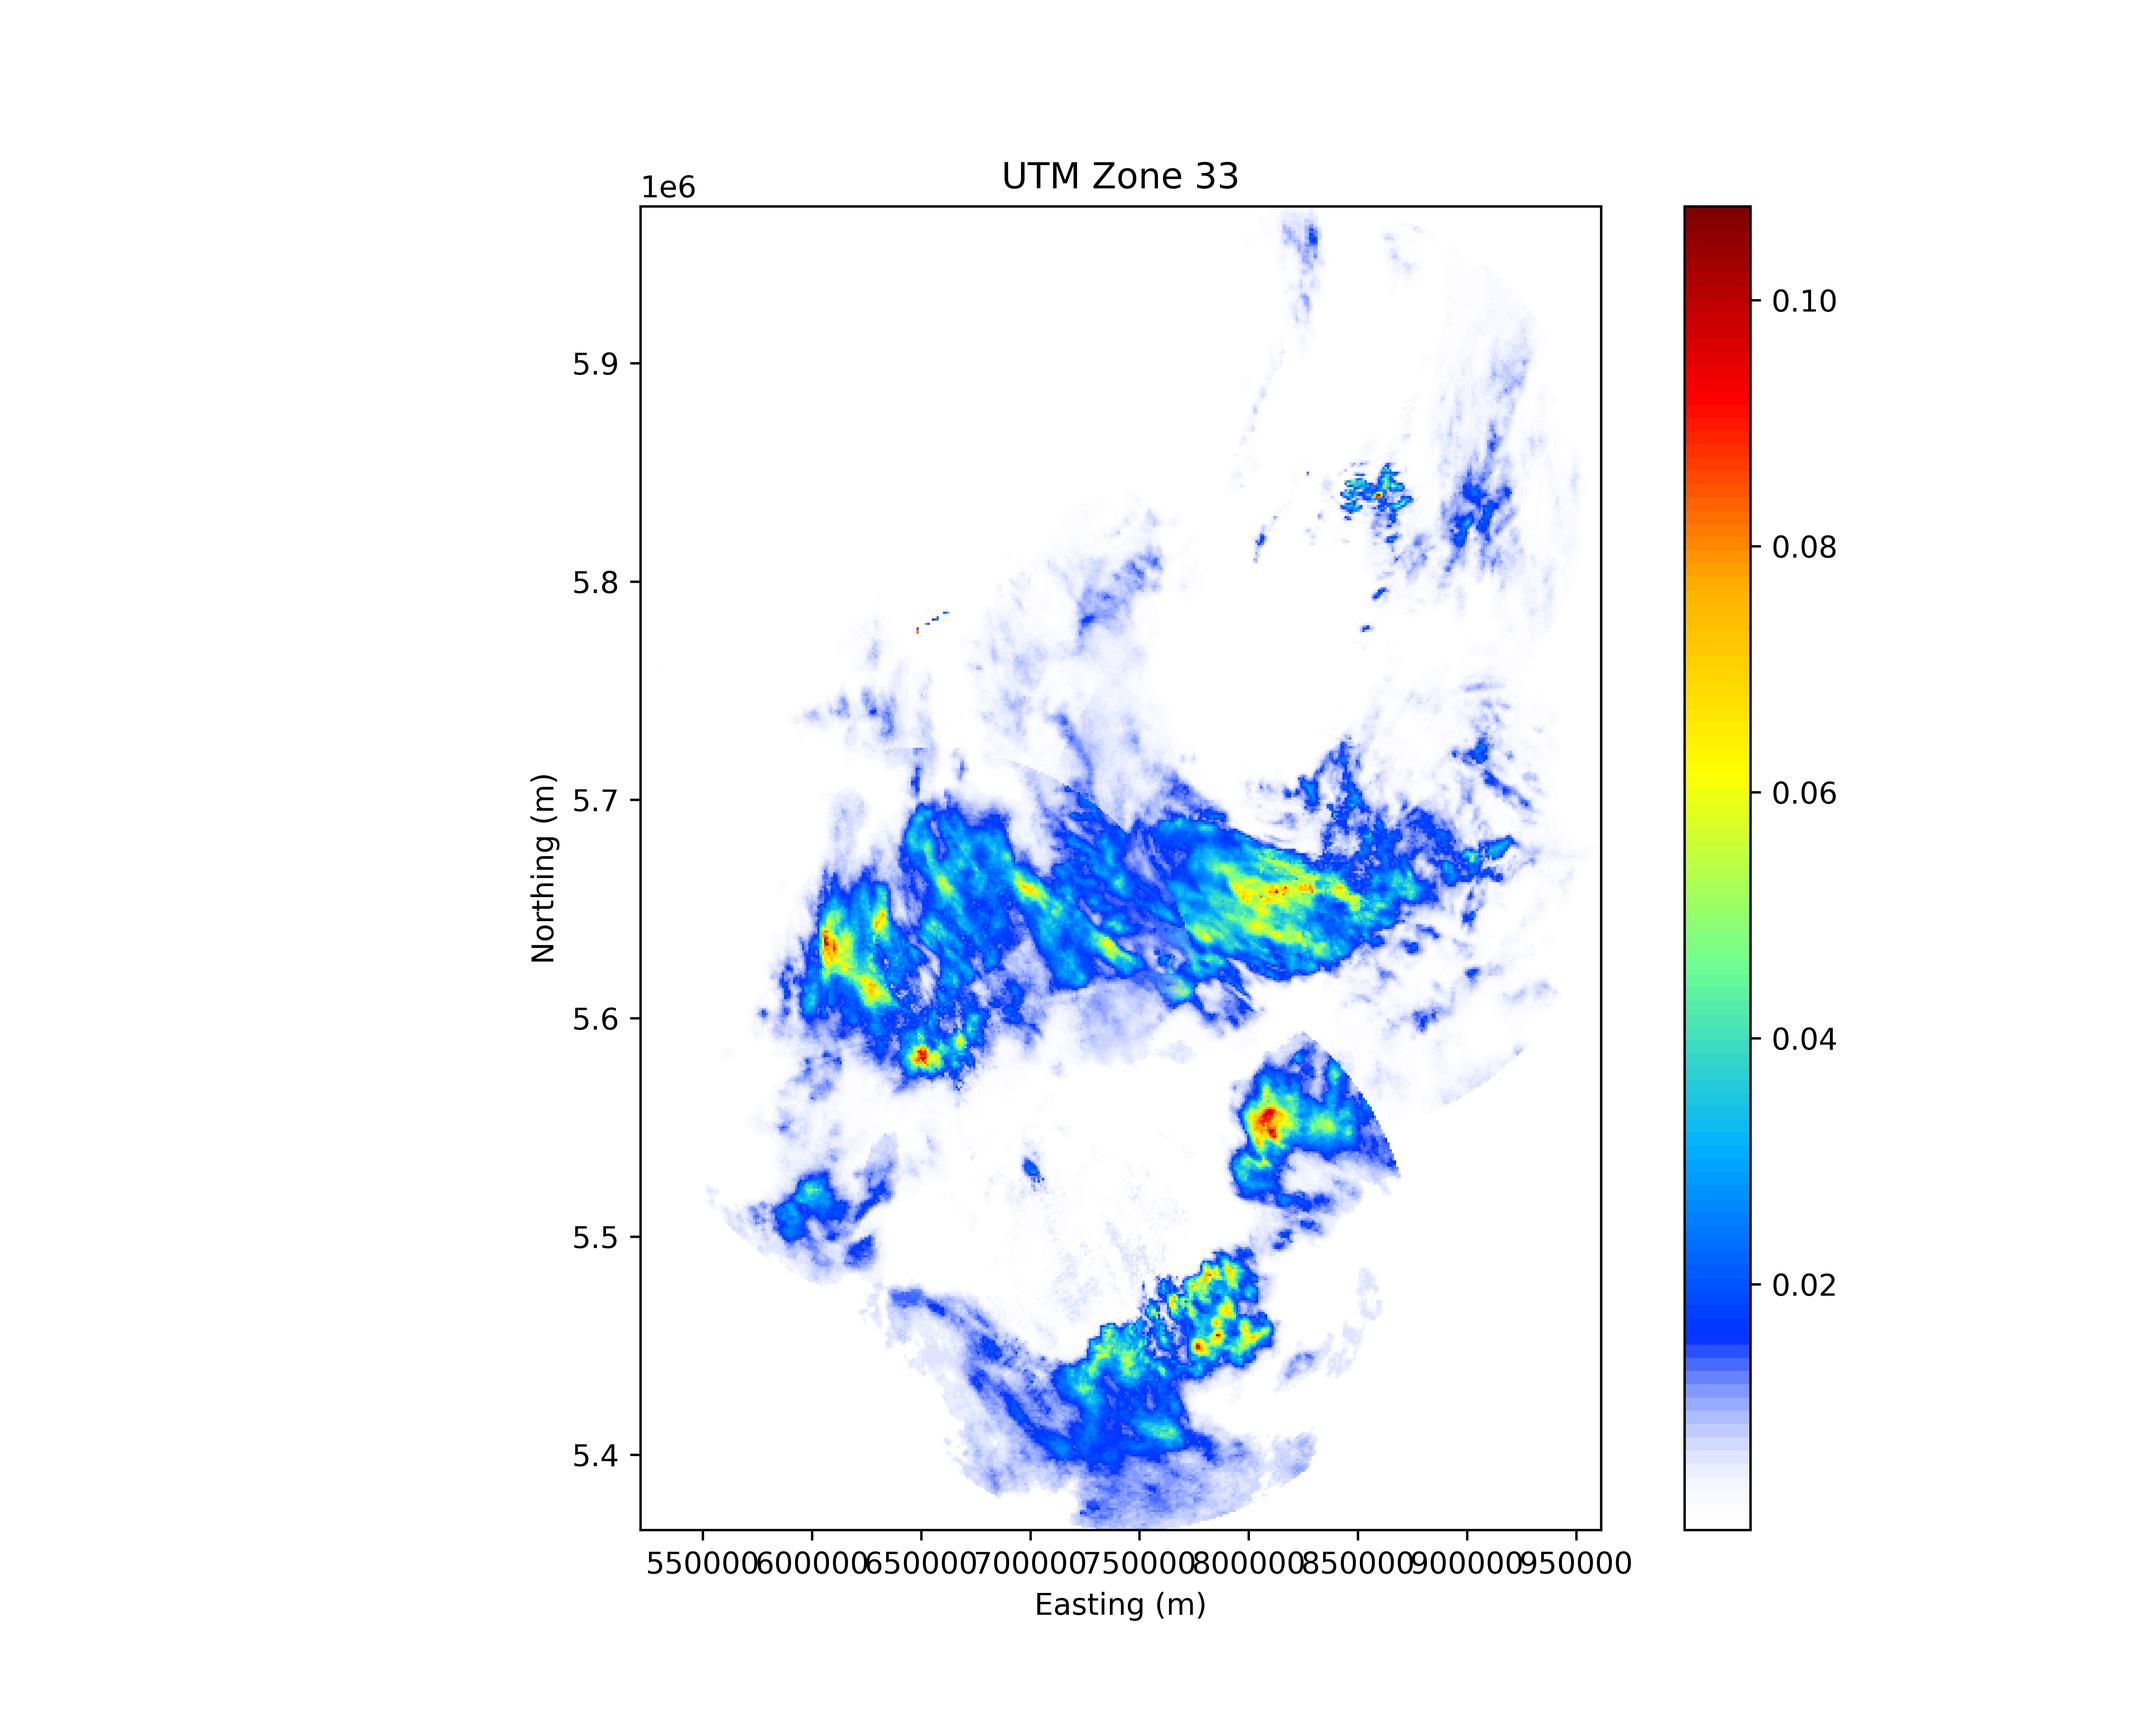
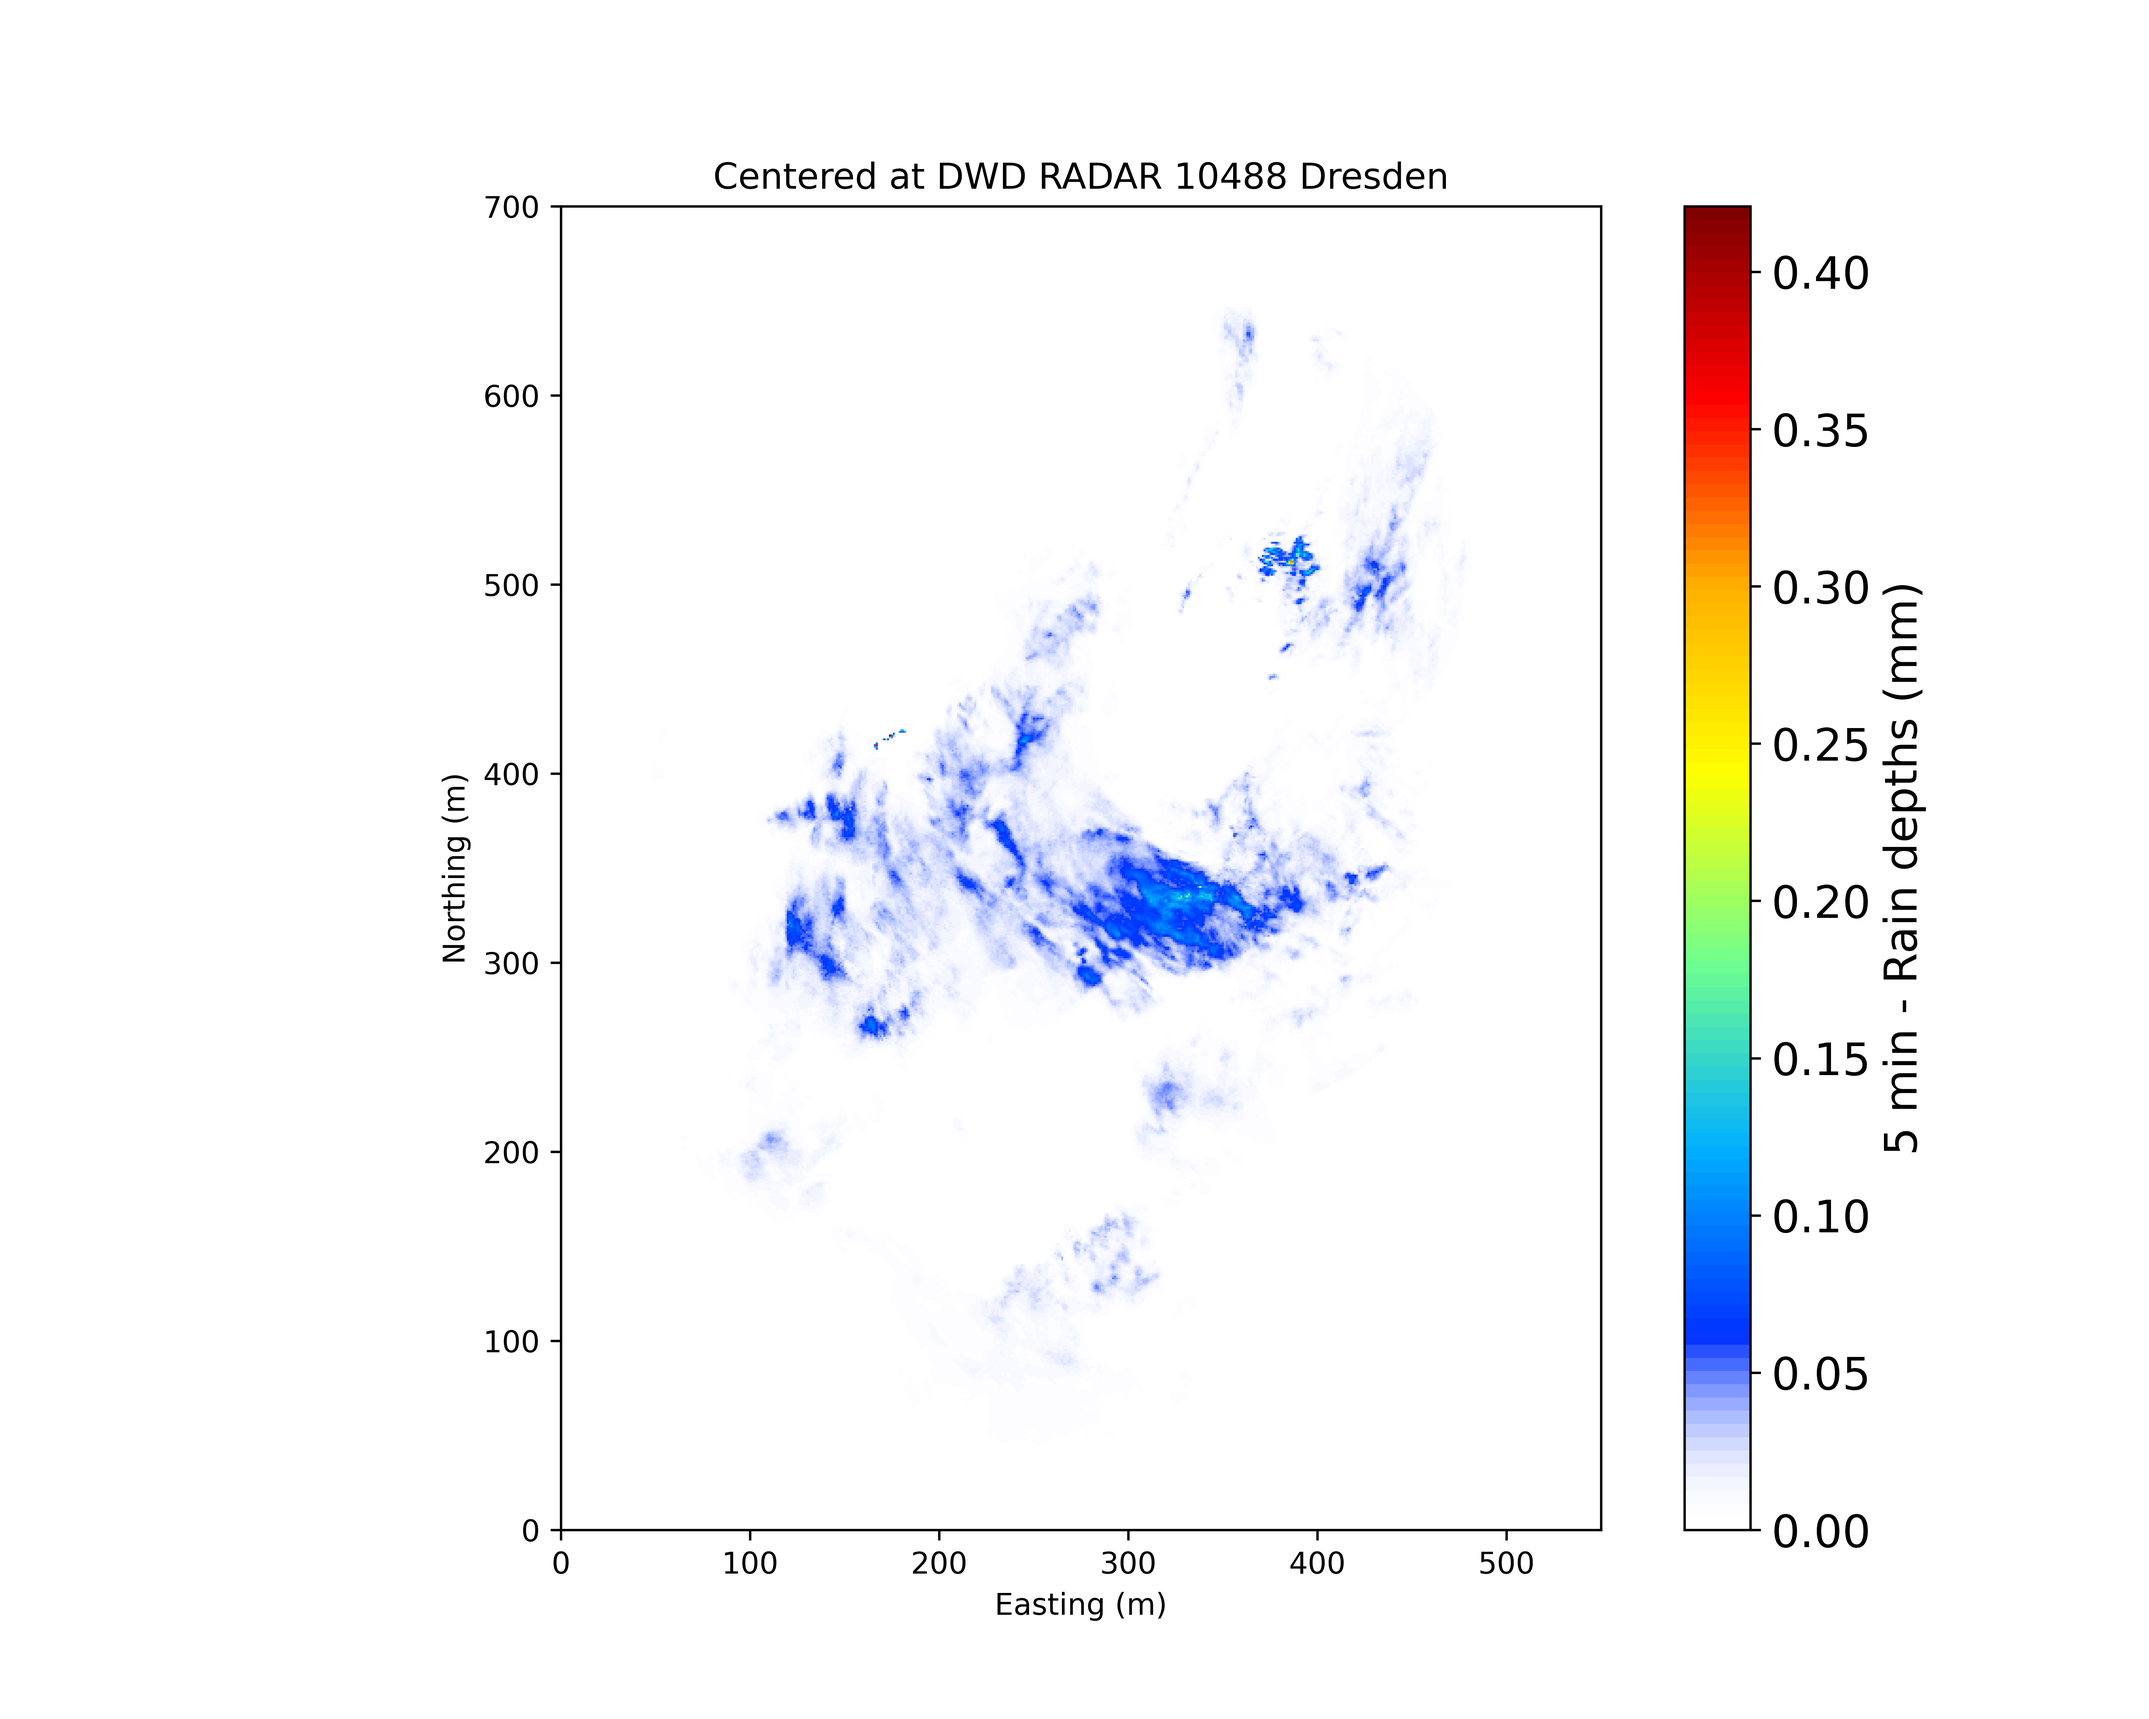
Create composite of multiple radar sites. Georeferencing needs more time and love.

diff --git a/code/composite.py b/code/composite.py
@@ -1,3 +1,4 @@
+from re import A
 import sys
 import datetime
 import numpy as np
@@ -5,7 +6,6 @@ import matplotlib.pylab as pl
 import matplotlib.pyplot as plt
 import wradlib as wrl
 from wradlib.georef.projection import reproject
-import cartopy.crs as ccrs
 
 from colorbar import cm
 from func import plot_raindepths, plot_gridded, clutter_gabella, attcorr,  rain_depths
@@ -23,16 +23,9 @@ site_loc_umd = (11.176091, 52.160096, 185)
 site_loc_neu = (11.135034, 50.500114, 880)
 site_loc_eis = (12.402788, 49.540667, 799)
 
-# get domain width and heigth, 135km 
-lon_min = 11.135034
-lon_max = 13.858212
-lat_min = 49.540667
-lat_max = 52.648667
-
-# Calculate rain depths as (360,128) - array.
 def get_depths(filename):
     """ 
-    Read data from file. Correct clutter and attenuation. Calculate and return 5min - rain depths.
+    Read data from file. Correct clutter and attenuation. Calculate and return 5min - rain depths as (360,128) - array.
     """
     f = wrl.util.get_wradlib_data_file('example_data/'+filename)
     data, metadata = wrl.io.read_dx(f)
@@ -47,56 +40,76 @@ depths_pro = get_depths(filename_pro)
 depths_umd = get_depths(filename_umd)
 depths_neu = get_depths(filename_neu)
 depths_eis = get_depths(filename_eis)
-np.savetxt("code/depths_drs.txt", depths_drs)
 
 # Gridding
-def get_radolan_coords(depths, radar_loc):
+def get_coords(depths, radar_loc):
     # Get cartesian coordinates in xyz-space.
     elevation = 0.5 # in degree
     azimuths = np.arange(0,360)
     ranges = np.arange(0, 128000., 1000.)
     polargrid = np.meshgrid(ranges, azimuths)
     coords, rad = wrl.georef.spherical_to_xyz(polargrid[0], polargrid[1], elevation, radar_loc)
-
-    # Get geo coordinates.
-    utm_coords = wrl.georef.reproject(coords, projection_source=rad, projection_target=wrl.georef.epsg_to_osr(32632))
-    x = utm_coords[..., 0]
-    y = utm_coords[..., 1]
-    # radolan = wrl.georef.create_osr("dwd-radolan") # polarstereografischer Projektion, äquidistante Rasterung von 1,0 km
-    # radolan_coords = wrl.georef.reproject(coords, projection_source=rad, projection_target=radolan)
-    # x = radolan_coords[..., 0]
-    # y = radolan_coords[..., 1]
+    x = coords[..., 0]
+    y = coords[..., 1]
 
     # Gridding -> 2D array
-    xgrid = np.linspace(x.min(), x.max(), 250)
-    ygrid = np.linspace(y.min(), y.max(), 250)
+    xgrid = np.linspace(x.min(), x.max(), 256)
+    ygrid = np.linspace(y.min(), y.max(), 256)
     grid_xy = np.meshgrid(xgrid, ygrid)
     grid_xy = np.vstack((grid_xy[0].ravel(), grid_xy[1].ravel())).transpose()
     xy=np.concatenate([x.ravel()[:,None],y.ravel()[:,None]], axis=1)
-    gridded = wrl.comp.togrid(xy, grid_xy, 128000., np.array([x.mean(), y.mean()]), depths.ravel(), wrl.ipol.Idw)
-    gridded = np.ma.masked_invalid(gridded).reshape((len(xgrid), len(ygrid)))
+    gridded = wrl.comp.togrid(xy, grid_xy, 128000., np.array([0,0]), depths.ravel(), wrl.ipol.Idw)
+    # gridded = np.ma.masked_invalid(gridded).reshape((len(xgrid), len(ygrid)))
+    gridded = gridded.reshape((len(xgrid), len(ygrid)))
     return xgrid, ygrid, gridded
 
-xgrid_drs, ygrid_drs, gridded_drs = get_radolan_coords(depths_drs, site_loc_drs)
-xgrid_eis, ygrid_eis, gridded_eis = get_radolan_coords(depths_eis, site_loc_eis)
-xgrid_pro, ygrid_pro, gridded_pro = get_radolan_coords(depths_pro, site_loc_pro)
-xgrid_umd, ygrid_umd, gridded_umd = get_radolan_coords(depths_umd, site_loc_umd)
-xgrid_neu, ygrid_neu, gridded_neu = get_radolan_coords(depths_neu, site_loc_neu)
-np.savetxt("code/gridded_drs.txt", gridded_drs)
+xgrid_drs, ygrid_drs, gridded_drs = get_coords(depths_drs, site_loc_drs)
+xgrid_eis, ygrid_eis, gridded_eis = get_coords(depths_eis, site_loc_eis)
+xgrid_pro, ygrid_pro, gridded_pro = get_coords(depths_pro, site_loc_pro)
+xgrid_umd, ygrid_umd, gridded_umd = get_coords(depths_umd, site_loc_umd)
+xgrid_neu, ygrid_neu, gridded_neu = get_coords(depths_neu, site_loc_neu)
+
+
+# Calculate offset of sites pro, umd, eis, neu from site drs.
+xgrid_pro = [x+6*1000 for x in xgrid_drs]
+ygrid_pro = [y+169*1000 for y in ygrid_drs]
+xgrid_eis = [x-95*1000 for x in xgrid_drs]
+ygrid_eis = [y-176*1000 for y in ygrid_drs]
+xgrid_neu = [x-184*1000 for x in xgrid_drs]
+ygrid_neu = [y-69*1000 for y in ygrid_drs]
+xgrid_umd = [x-181*1000 for x in xgrid_drs]
+ygrid_umd = [y+69*1000 for y in ygrid_drs]
+
+# Add data to domain
+domain = np.zeros((700,550))
+def radar_into_domain(gridded_data, x_offset, y_offset):
+    """ 
+    Change nan's to zeros. Choose element wise maximum and insert in main domain.
+    """
+    x_offset-= 128
+    y_offset-= 128
+    domain_new = np.maximum(domain[y_offset:y_offset+gridded_data.shape[0], x_offset:x_offset+gridded_data.shape[1]], np.nan_to_num(gridded_data))
+    domain[y_offset:y_offset+gridded_data.shape[0], x_offset:x_offset+gridded_data.shape[1]] = domain_new
+    
+
+radar_into_domain(gridded_drs, 350, 350)
+radar_into_domain(gridded_eis, 255, 174)
+radar_into_domain(gridded_pro, 356, 519)
+radar_into_domain(gridded_umd, 168, 419)
+radar_into_domain(gridded_neu, 166 ,281)
 
 # Plotting
 fig = pl.figure(figsize=(10,8))
 ax = pl.subplot(111, aspect="equal")
-# ax = pl.axes(projection=ccrs.PlateCarree())
-# ax.coastlines()
-# ax.gridlines(draw_labels=True)
-pm1 = pl.pcolormesh(xgrid_drs, ygrid_drs, gridded_drs, cmap=cm)
-pm2 = pl.pcolormesh(xgrid_eis, ygrid_eis, gridded_eis, cmap=cm)
-pm3 = pl.pcolormesh(xgrid_pro, ygrid_pro, gridded_pro, cmap=cm)
-pm4 = pl.pcolormesh(xgrid_umd, ygrid_umd, gridded_umd, cmap=cm)
-pm4 = pl.pcolormesh(xgrid_neu, ygrid_neu, gridded_neu, cmap=cm)
-pl.colorbar()
+plt.imshow(domain, cmap=cm)
+cbar = pl.colorbar()
+cbar.ax.tick_params(labelsize=15) 
+cbar.set_label("5 min - Rain depths (mm)", fontsize=15)
+pl.xlim([0, 550])
+pl.ylim([0, 700])
+# pl.xlim([-350000, 200000])
+# pl.ylim([-350000, 350000])
 pl.xlabel("Easting (m)")
 pl.ylabel("Northing (m)")
-pl.title("UTM Zone 33")
+pl.title("Centered at DWD RADAR 10488 Dresden", fontsize=12)
 pl.savefig(f"images/composite_{filename_drs[15:25]}", dpi=600)
